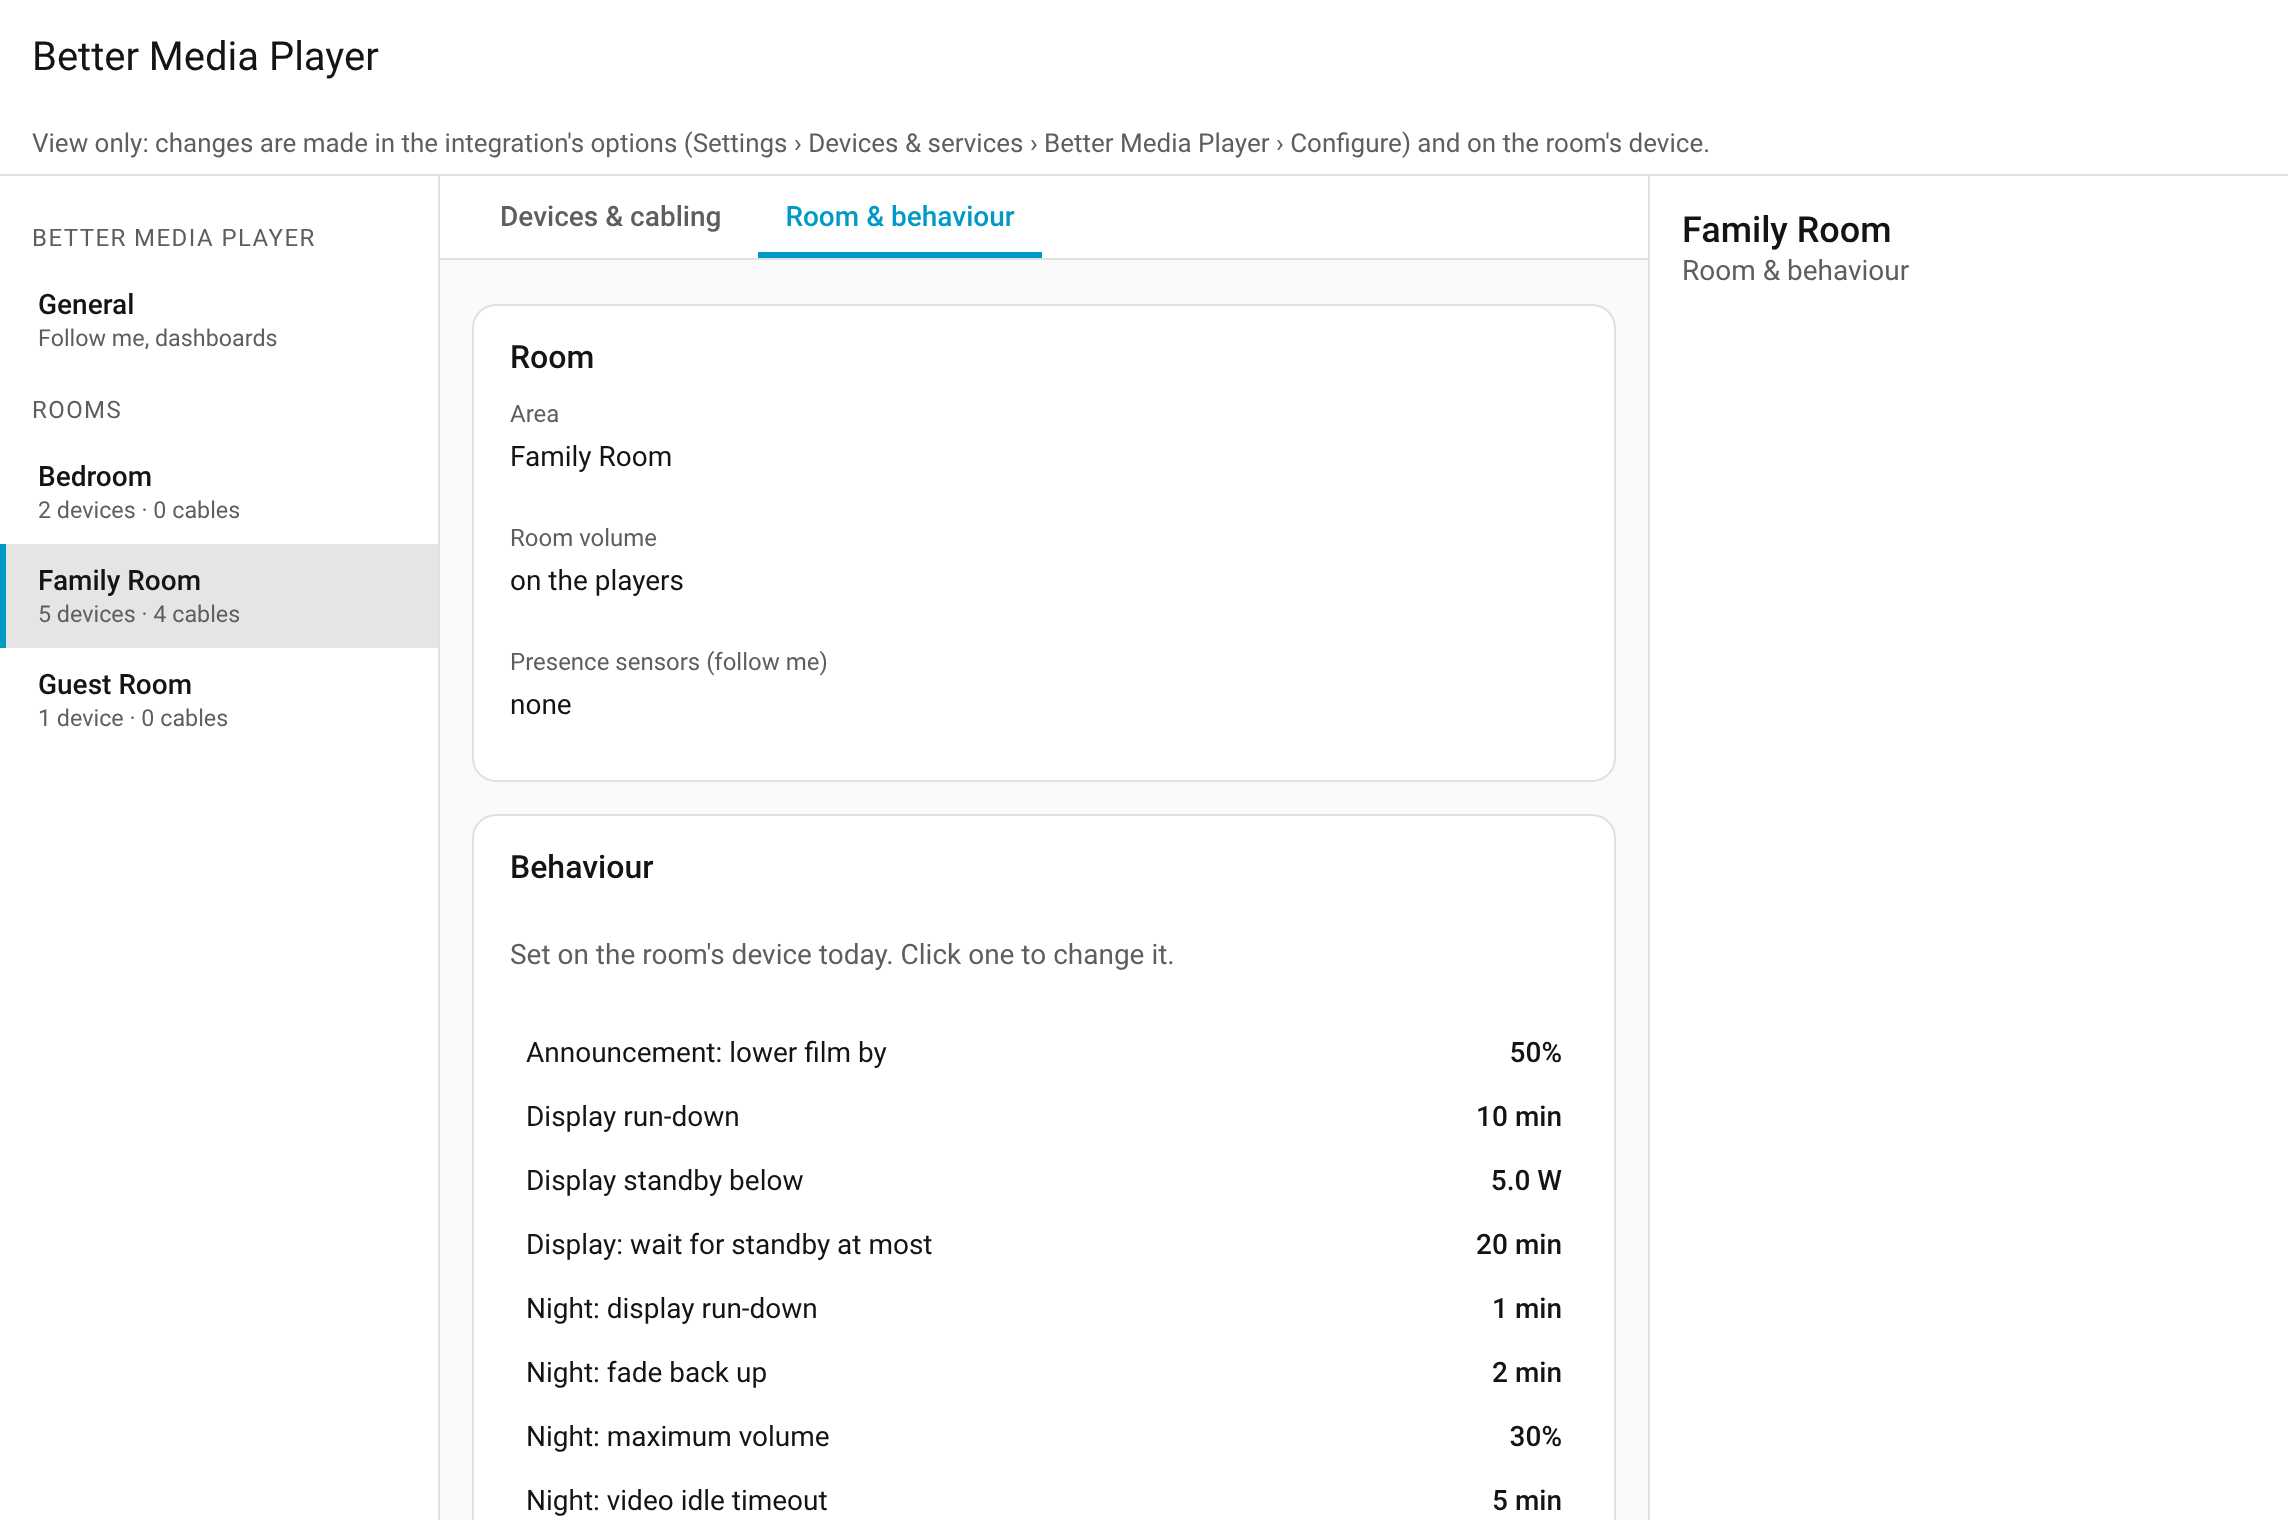
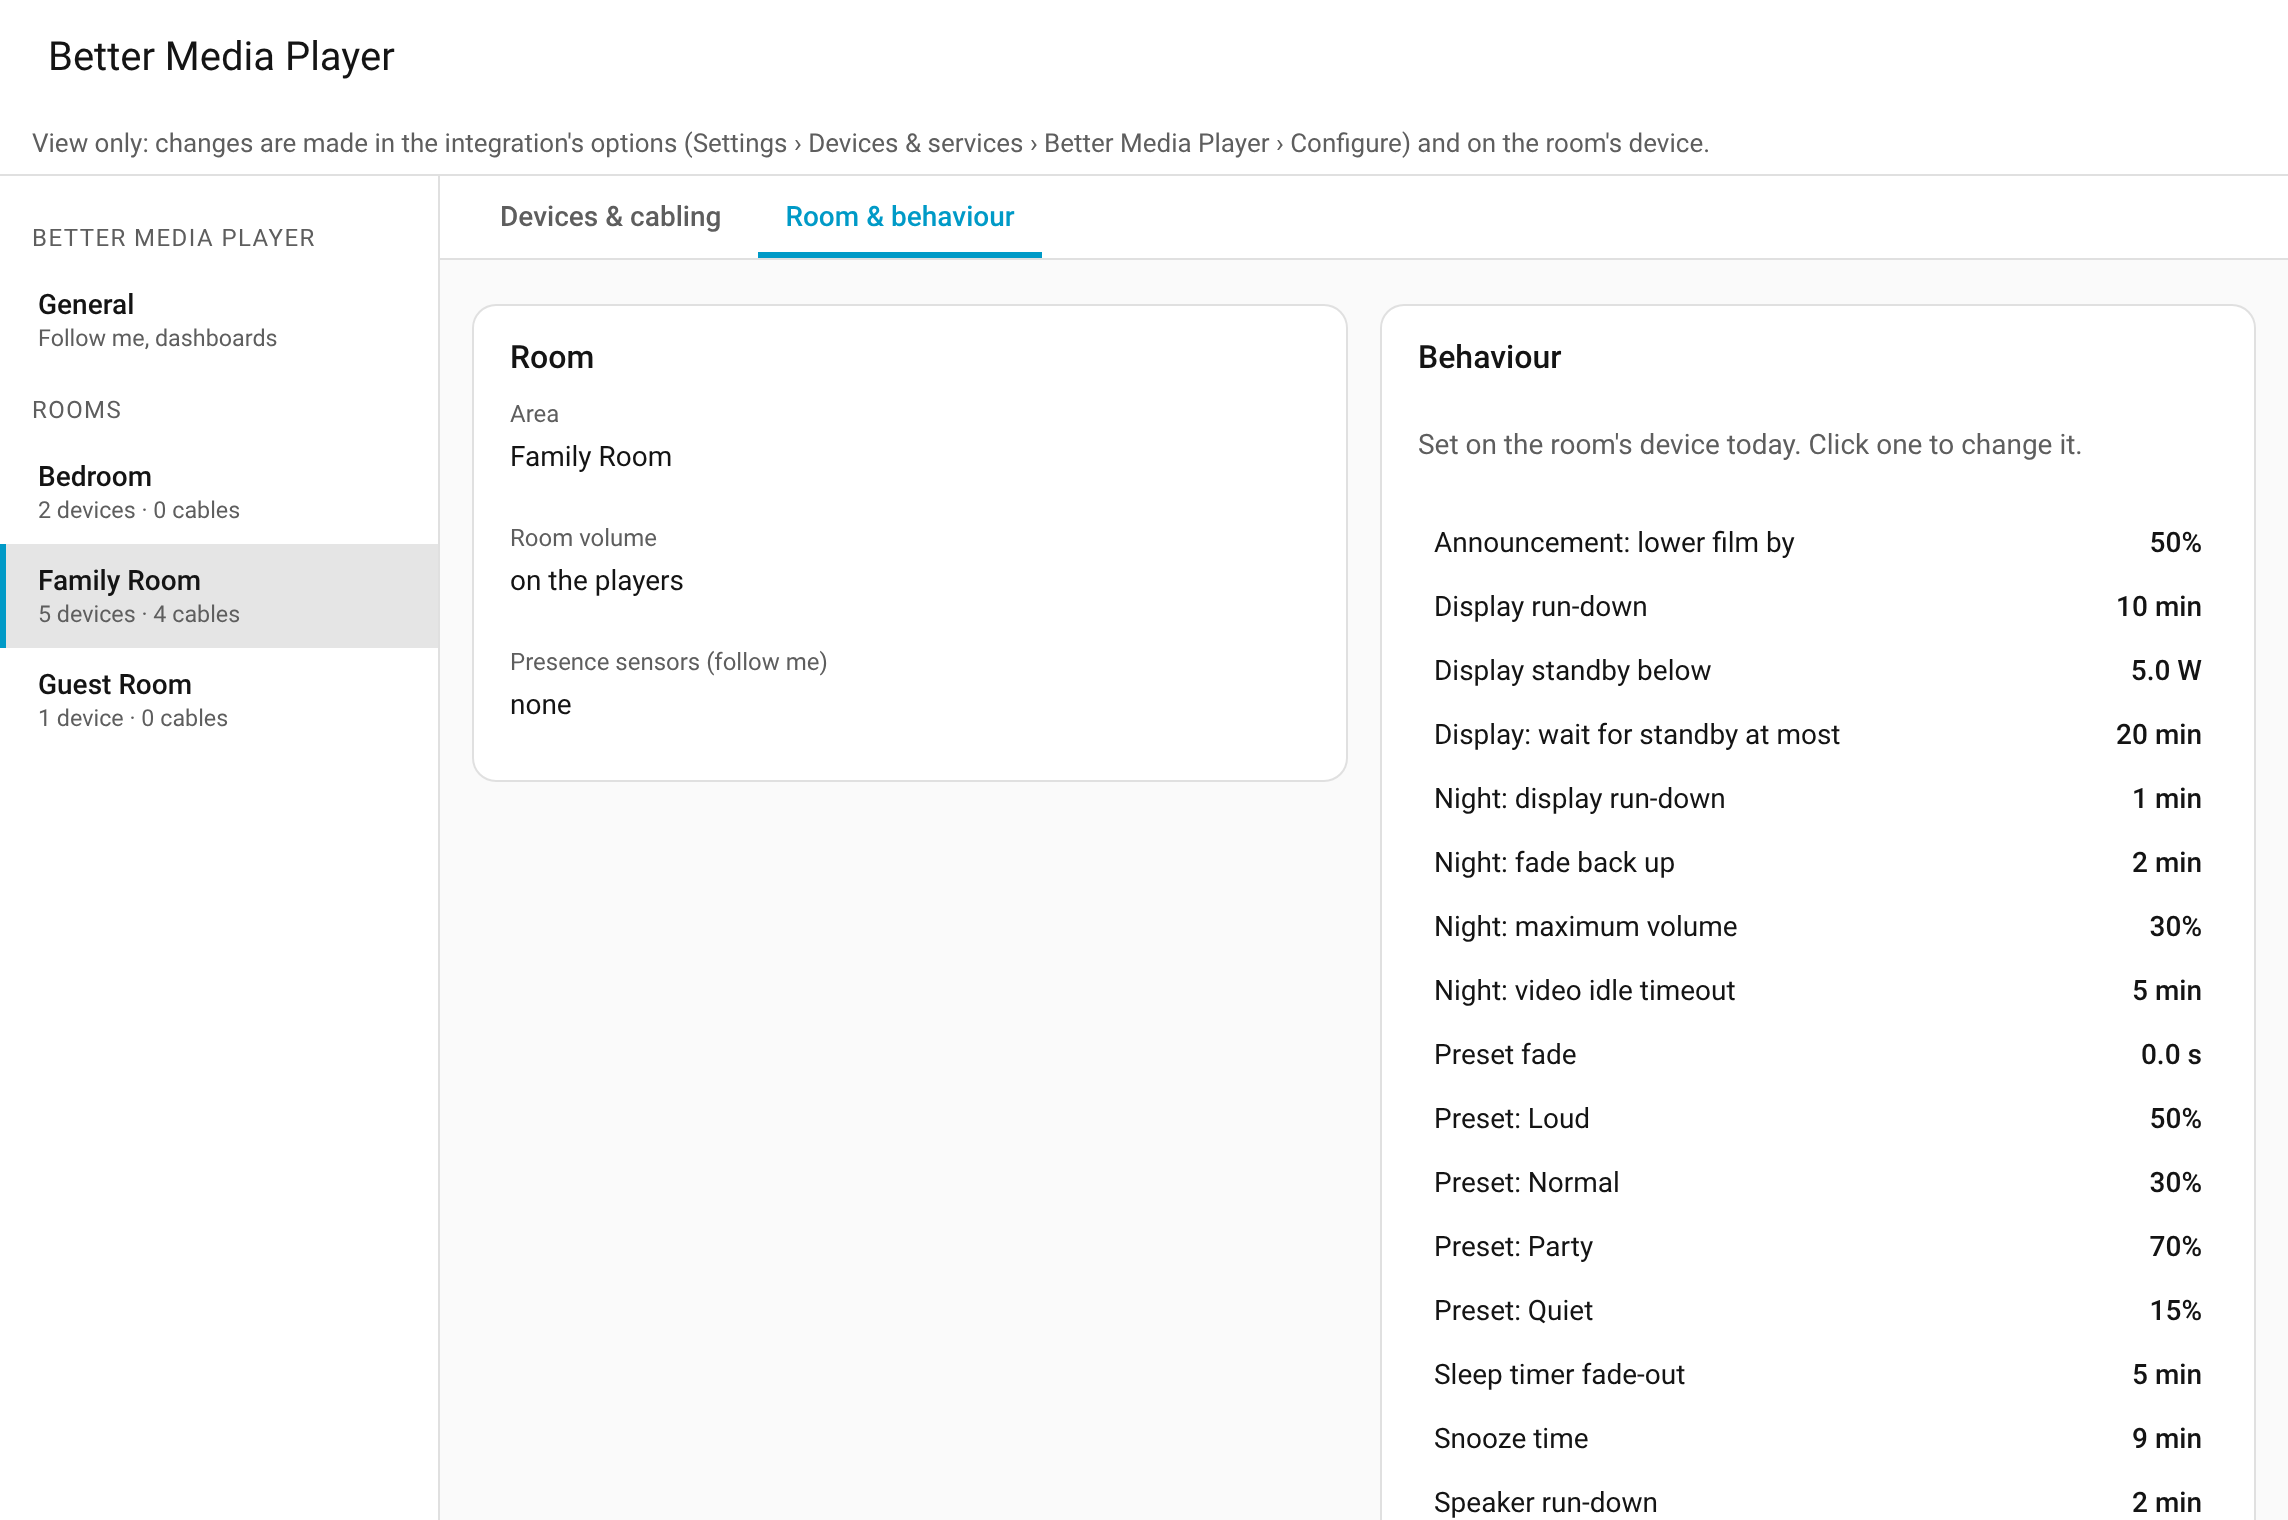
Panel: details only while something is picked
The details column took 320 px even with nothing selected: on a 1400 px
screen the drawing got 604 px and was fitted to 58 %. Now it opens when a
tile or cable is clicked (× closes it); the hints are in the line below the
drawing, General and Room & behaviour use the whole width. Cards keep their
own height; no focus ring after a mouse click (only for the keyboard).
Screenshots taken anew.

Claude-Session: https://claude.ai/code/session_01Mgztzm6dmHdgQHQYnCgpdp

diff --git a/custom_components/better_media_player/frontend/bmp-panel.js b/custom_components/better_media_player/frontend/bmp-panel.js
@@ -149,11 +149,10 @@ class BmpPanel extends LitElement {
         </header>
         <div class="viewonly">${t("view_only")}</div>
         ${this._notice ? html`<div class="notice" role="alert">${this._notice}<button class="chip" @click=${() => { this._notice = null; }}>${t("dismiss")}</button></div>` : nothing}
-        <div class="main">
+        <div class="main ${this._page === "room" && this._tab === "wiring" && this._selected ? "details" : ""}">
           ${this._renderNav()}
           ${this._page === "central"
-            ? html`<section class="stage"><div class="page">${this._renderCentral()}</div></section>
-                <section class="inspector"><h2>${t("nav.general")}</h2><p class="muted">${t("central.hint")}</p></section>`
+            ? html`<section class="stage"><div class="page">${this._renderCentral()}</div></section>`
             : room
               ? this._renderRoom(room)
               : html`<section class="stage"><div class="message">${t("no_rooms")}</div></section>`}
@@ -192,7 +191,9 @@ class BmpPanel extends LitElement {
           ? html`<div class="page">${this._renderSettings(room)}</div>`
           : html`${this._renderSources(room)}${this._renderDiagram(room)}${this._renderRoute(room)}`}
       </section>
-      <section class="inspector">${this._tab === "settings" ? html`<h2>${room.name}</h2><div class="kind">${t("tab.settings")}</div>` : this._renderInspector(room)}</section>
+      ${this._tab === "wiring" && this._selected ? html`<section class="inspector">
+        <button class="close" title=${t("close")} aria-label=${t("close")} @click=${() => { this._selected = null; }}>×</button>
+        ${this._renderInspector(room)}</section>` : nothing}
     `;
   }
 
@@ -296,7 +297,8 @@ class BmpPanel extends LitElement {
   _renderRoute(room) {
     const t = this._t;
     const src = room.sources.find((s) => s.id === this._source);
-    if (!src) return html`<div class="route">${t("route.pick")}</div>`;
+    if (!src)
+      return html`<div class="route">${!room.cables.length && room.devices.length ? html`${t("insp.migrated")} ` : nothing}${t("route.pick")} ${t("insp.click")}</div>`;
     const r = room.routes[src.id];
     const devices = r.devices.map((id) => room.devices.find((d) => d.id === id)).filter((d) => d && !PASSIVE.includes(d.kind));
     const name = (d) => d.name || t(`kind.${d.kind}`);
@@ -315,12 +317,6 @@ class BmpPanel extends LitElement {
   _renderInspector(room) {
     const t = this._t;
     const sel = this._selected;
-    if (!sel) {
-      return html`<h2>${room.name}</h2>
-        <div class="kind">${t("insp.room_summary", this._counts(room))}</div>
-        ${!room.cables.length && room.devices.length ? html`<p class="note">${t("insp.migrated")}</p>` : nothing}
-        <p class="muted">${t("insp.click")}</p>`;
-    }
     if (sel.type === "cable") {
       const c = room.cables[sel.index];
       if (!c) return nothing;
@@ -452,7 +448,11 @@ class BmpPanel extends LitElement {
   }
 
   _focusDrawing() {  // (pointerdown is prevented: no text selection, so no focus by itself)
-    this.renderRoot.querySelector(".canvas-wrap")?.focus({ preventScroll: true });
+    const wrap = this.renderRoot.querySelector(".canvas-wrap");
+    if (!wrap) return;
+    wrap.dataset.pointer = "";  // focused by the mouse: no focus ring (that is for the keyboard)
+    wrap.addEventListener("blur", () => delete wrap.dataset.pointer, { once: true });
+    wrap.focus({ preventScroll: true });
   }
 
   _onPanStart(e) {
@@ -610,7 +610,11 @@ class BmpPanel extends LitElement {
     .notice { display: flex; align-items: center; gap: 12px; justify-content: space-between; padding: 8px 16px; background: var(--warning-color, #f9a825); color: #000; }
     .zoombar button:disabled { opacity: .4; cursor: default; }
     .viewonly { padding: 8px 16px; background: var(--bmp-card); border-bottom: 1px solid var(--bmp-line); color: var(--bmp-muted); font-size: 13px; }
-    .main { display: grid; grid-template-columns: 220px 1fr 320px; min-height: 0; }
+    .main { display: grid; grid-template-columns: 220px 1fr; min-height: 0; }
+    .main.details { grid-template-columns: 220px 1fr 320px; }
+    .inspector { position: relative; }
+    .close { position: absolute; top: 8px; right: 8px; width: 32px; height: 32px; border: 0; border-radius: 50%; background: none; font-size: 20px; color: var(--bmp-muted); }
+    .close:hover { background: var(--bmp-chip); color: var(--bmp-text); }
     aside, .inspector { background: var(--bmp-card); overflow: auto; }
     aside { border-right: 1px solid var(--bmp-line); padding: 12px 0; }
     .inspector { border-left: 1px solid var(--bmp-line); padding: 16px; }
@@ -626,7 +630,7 @@ class BmpPanel extends LitElement {
     .tabs { display: flex; gap: 4px; padding: 0 16px; background: var(--bmp-card); border-bottom: 1px solid var(--bmp-line); }
     .tabs button { border: 0; background: none; padding: 12px 14px 10px; border-bottom: 3px solid transparent; color: var(--bmp-muted); font-weight: 500; }
     .tabs button[aria-selected="true"] { color: var(--bmp-primary); border-bottom-color: var(--bmp-primary); }
-    .page { overflow: auto; padding: 20px 16px; display: grid; gap: 16px; align-content: start; grid-template-columns: repeat(auto-fill, minmax(320px, 1fr)); }
+    .page { overflow: auto; padding: 20px 16px; display: grid; gap: 16px; align-content: start; align-items: start; grid-template-columns: repeat(auto-fill, minmax(320px, 1fr)); }
     .card { background: var(--bmp-card); border: 1px solid var(--bmp-line); border-radius: var(--ha-card-border-radius, 12px); padding: 16px 18px; display: grid; gap: 12px; align-content: start; }
     .card h3 { margin: 0; font-size: 16px; font-weight: 500; }
     .settings { display: grid; gap: 2px; }
@@ -642,7 +646,8 @@ class BmpPanel extends LitElement {
     .legend i.picture { border-color: var(--bmp-picture); }
     .legend i.sound { border-color: var(--bmp-sound); border-top-style: dashed; }
     .legend i.direct { border-color: var(--bmp-muted); border-top-style: dotted; border-top-width: 2px; }
-    .canvas-wrap:focus-visible { outline: 2px solid var(--bmp-primary); outline-offset: -2px; }
+    .canvas-wrap:focus { outline: none; }
+    .canvas-wrap:focus-visible:not([data-pointer]) { outline: 2px solid var(--bmp-primary); outline-offset: -2px; }
     .canvas-wrap { position: relative; overflow: hidden; min-height: 0; background-image: radial-gradient(var(--bmp-line) 1px, transparent 1px); background-size: 20px 20px; }
     svg#canvas { display: block; width: 100%; height: 100%; user-select: none; -webkit-user-select: none; touch-action: none; cursor: grab; }
     .zoombar { position: absolute; right: 12px; bottom: 12px; display: flex; flex-direction: column; gap: 6px; }
@@ -691,7 +696,7 @@ class BmpPanel extends LitElement {
     .inputs span { font-family: var(--code-font-family, ui-monospace, monospace); font-size: 12px; background: var(--bmp-chip); border-radius: 6px; padding: 3px 7px; }
     .muted { color: var(--bmp-muted); }
     .note { margin: 0 0 12px; padding: 10px 12px; border-radius: 8px; background: var(--bmp-chip); font-size: 13px; }
-    @media (max-width: 1100px) { .main { grid-template-columns: 180px 1fr 280px; } }
+    @media (max-width: 1100px) { .main { grid-template-columns: 180px 1fr; } .main.details { grid-template-columns: 180px 1fr 280px; } }
     @media (max-width: 820px) {
       .main { display: block; overflow: auto; }
       aside { display: flex; gap: 8px; align-items: center; overflow-x: auto; padding: 8px 16px; border-right: 0; border-bottom: 1px solid var(--bmp-line); }

diff --git a/docs/designer.md b/docs/designer.md
@@ -23,7 +23,7 @@ Tested on a local Home Assistant 2026.2 with the demo integration (simulated dev
 - **Cables:** what the room's [cabling](devices.md) describes. Picture is blue, sound orange and dashed; an input to choose is written on the cable (*· CEC* when HDMI-CEC chooses it).
 - **Dotted lines:** a device no cable reaches is fed directly, as in a room without cabling – the display gets the picture, speakers and subwoofer get the sound.
 - **Show route:** pick a player to highlight what it needs when it starts; below the drawing, the order in which the devices come on and the inputs they are switched to. *All* shows every cable.
-- **Details:** click a tile or a cable. A player shows its entity, the plug of its hardware and its own actions; a device its plugs, the devices that switch themselves, its power sensors, who switches it on and off, its inputs and the players it is needed for; a cable what it carries and its input. A click on an entity opens it.
+- **Details:** click a tile or a cable, and its details open on the right (× closes them; the drawing has the whole width otherwise). A player shows its entity, the plug of its hardware and its own actions; a device its plugs, the devices that switch themselves, its power sensors, who switches it on and off, its inputs and the players it is needed for; a cable what it carries and its input. A click on an entity opens it.
 
 The routes are worked out by the integration, with the same calculation that switches the room.
 

diff --git a/README.md b/README.md
@@ -42,7 +42,7 @@ It is a custom integration in the spirit of Better Thermostat: you tell it what 
 
 A page of its own in Home Assistant's sidebar shows every room as a drawing: its players, its devices, how they are cabled, and what each player needs when it starts. In this release it only shows; rooms are still set up in the integration's options. [More about the panel](https://github.com/financelurker/ha-better-media-player/blob/main/docs/designer.md).
 
-![The panel: a room's devices and cables, the film's route highlighted](https://raw.githubusercontent.com/financelurker/ha-better-media-player/main/docs/images/panel.png?v=4db60e3116)
+![The panel: a room's devices and cables, the film's route highlighted](https://raw.githubusercontent.com/financelurker/ha-better-media-player/main/docs/images/panel.png?v=77c128b57d)
 
 ## Is it for you?
 
